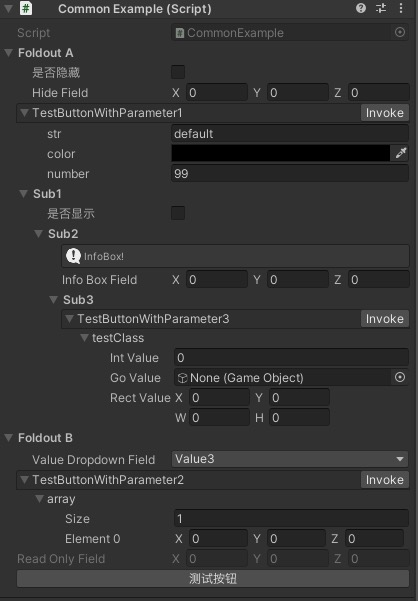
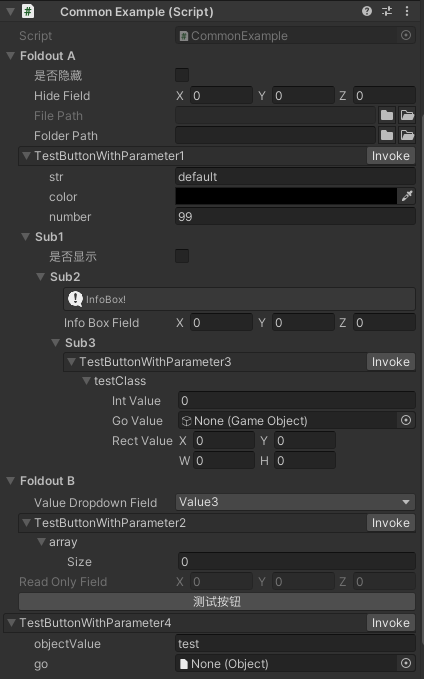
Add FilePathAttribute and FolderPathAttribute.

diff --git a/Common/Editor/PropertyDrawers/PropertyDrawers.cs b/Common/Editor/PropertyDrawers/PropertyDrawers.cs
@@ -1,5 +1,6 @@
 using System;
 using System.Collections;
+using System.IO;
 using System.Reflection;
 using CustomizationInspector.Runtime;
 using UnityEditor;
@@ -275,4 +276,106 @@ namespace CustomizationInspector.Editor
 	        return EditorGUI.GetPropertyHeight(property);
         }
     }
+
+	internal class PathDrawer : PropertyDrawer
+	{
+		public const int BrowseButtonWidth = 18;
+		public const int OpenButtonWidth = 18;
+		public const int Space = 2;
+		
+		private static readonly GUIContent browseContent = EditorGUIUtility.IconContent("d_Folder Icon");
+		private static readonly GUIContent openContent = EditorGUIUtility.IconContent("d_FolderOpened Icon");
+		private static readonly GUIStyle buttonStyle = GUI.skin.FindStyle("ColorPickerBox") ??
+		                                               EditorGUIUtility.GetBuiltinSkin(EditorSkin.Inspector).FindStyle("ColorPickerBox") ??
+		                                               GUIStyle.none;
+
+		public override void OnGUI(Rect position, SerializedProperty property, GUIContent label)
+		{
+			if (fieldInfo.FieldType != typeof(string))
+			{
+				EditorGUI.PropertyField(position, property, label);
+				return;
+			}
+			DrawPath(position, property, label);
+		}
+
+		public override float GetPropertyHeight(SerializedProperty property, GUIContent label)
+		{
+			return EditorGUI.GetPropertyHeight(property);
+		}
+		
+		public void DrawPath(Rect position, SerializedProperty property, GUIContent label)
+		{
+			if (attribute is not PathAttribute pathAttribute) return;
+			Rect propertyPosition = new Rect(position);
+			if (pathAttribute.Browse)
+				propertyPosition.width -= Space + BrowseButtonWidth;
+			if (pathAttribute.Open)
+				propertyPosition.width -= Space + OpenButtonWidth;
+			EditorGUI.PropertyField(propertyPosition, property, label, true);
+			if (pathAttribute.Draggable)
+			{
+				if (Event.current.type == EventType.DragUpdated && propertyPosition.Contains(Event.current.mousePosition))
+					DragAndDrop.visualMode = DragAndDropVisualMode.Link;
+				else if (Event.current.type == EventType.DragPerform && DragAndDrop.paths != null && DragAndDrop.paths.Length > 0)
+				{
+					if (propertyPosition.Contains(Event.current.mousePosition) && DragAndDrop.paths[0] != null)
+					{
+						string path = DragAndDrop.paths[0];
+						if (!pathAttribute.IsFile && File.Exists(path))
+							path = Path.GetDirectoryName(path);
+						property.stringValue = pathAttribute.GetRelativePath(path);
+						Event.current.Use();
+					}
+				}
+			}
+			
+			if (pathAttribute.Browse)
+			{
+				Rect browsePosition = new Rect(position);
+				if (pathAttribute.Open)
+				{
+					browsePosition.width = BrowseButtonWidth;
+					browsePosition.x += propertyPosition.width + Space;
+				}
+				else
+					browsePosition.xMin = browsePosition.xMax - OpenButtonWidth;
+				//Avoid ReadOnlyAttribute make button can not click.
+				bool enabled = GUI.enabled;
+				GUI.enabled = true;
+				if (GUI.Button(browsePosition, browseContent, buttonStyle))
+				{
+					string path;
+					if (pathAttribute.IsFile)
+						path = EditorUtility.OpenFilePanel(label.text, pathAttribute.GetAbsolutePath(property.stringValue), "");
+					else
+						path = EditorUtility.OpenFolderPanel(label.text, pathAttribute.GetAbsolutePath(property.stringValue), "");
+					if (!string.IsNullOrEmpty(path))
+						property.stringValue = pathAttribute.GetRelativePath(path);
+				}
+				GUI.enabled = enabled;
+			}
+			if (pathAttribute.Open)
+			{
+				Rect openPosition = new Rect(position);
+				openPosition.xMin = openPosition.xMax - OpenButtonWidth;
+				//Avoid ReadOnlyAttribute make button can not click.
+				bool enabled = GUI.enabled;
+				GUI.enabled = true;
+				if (GUI.Button(openPosition, openContent, buttonStyle))
+					EditorUtility.RevealInFinder(pathAttribute.GetAbsolutePath(property.stringValue));
+				GUI.enabled = enabled;
+			}
+		}
+	}
+
+	[CustomPropertyDrawer(typeof(Runtime.FilePathAttribute))]
+	internal class FilePathDrawer : PathDrawer
+	{
+	}
+	
+	[CustomPropertyDrawer(typeof(Runtime.FolderPathAttribute))]
+	internal class FolderPathDrawer : PathDrawer
+	{
+	}
 }

diff --git a/Common/Runtime/Attributes/PropertyAttributes.cs b/Common/Runtime/Attributes/PropertyAttributes.cs
@@ -1,5 +1,6 @@
 using System;
 using System.Diagnostics;
+using System.IO;
 using UnityEngine;
 namespace CustomizationInspector.Runtime
 {	
@@ -9,6 +10,13 @@ namespace CustomizationInspector.Runtime
 		Info,
 		Warning,
 		Error,
+	}
+	
+	public enum PathLocation
+	{
+		CustomFolder,
+		ProjectFolder,
+		AssetsFolder,
 	}
 
 	[AttributeUsage(AttributeTargets.Method, Inherited = true, AllowMultiple = false)]
@@ -135,6 +143,80 @@ namespace CustomizationInspector.Runtime
 		public FoldoutAttribute(string groupName)
 		{
 			GroupName = groupName;
+		}
+	}
+	
+	[Conditional("UNITY_EDITOR")]
+	public abstract class PathAttribute : PropertyAttribute
+	{
+		public readonly PathLocation Location;
+		public readonly string RootFolder;
+		public abstract bool IsFile { get; }
+		public bool Browse = true;
+		public bool Open = true;
+		public bool Draggable = true;
+		
+		public PathAttribute(PathLocation location = PathLocation.ProjectFolder, string rootFolder = null)
+		{
+			Location = location;
+			switch (location)
+			{
+				case PathLocation.CustomFolder:
+					RootFolder = rootFolder;
+					break;
+				case PathLocation.ProjectFolder:
+					RootFolder = Environment.CurrentDirectory;
+					break;
+				case PathLocation.AssetsFolder:
+					RootFolder = Application.dataPath;
+					break;
+			}
+		}
+		
+		public PathAttribute(string rootFolder) : this(PathLocation.CustomFolder, rootFolder)
+		{
+		}
+		
+		public string GetRelativePath(string path)
+		{
+			if (string.IsNullOrEmpty(RootFolder) || string.IsNullOrEmpty(path)) return path;
+			return Path.GetRelativePath(RootFolder, path);
+		}
+
+		public string GetAbsolutePath(string relativePath)
+		{
+			if (string.IsNullOrEmpty(RootFolder)) return relativePath;
+			return Path.GetFullPath(Path.Combine(RootFolder, relativePath ?? ""));
+		}
+	}
+	
+	[AttributeUsage(AttributeTargets.Field, Inherited = true, AllowMultiple = false)]
+	[Conditional("UNITY_EDITOR")]
+	public class FilePathAttribute : PathAttribute
+	{
+		public override bool IsFile => true;
+
+		public FilePathAttribute(PathLocation location = PathLocation.ProjectFolder, string rootFolder = null) : base(location, rootFolder)
+		{
+		}
+		
+		public FilePathAttribute(string rootFolder) : base(rootFolder)
+		{
+		}
+	}
+
+	[AttributeUsage(AttributeTargets.Field, Inherited = true, AllowMultiple = false)]
+	[Conditional("UNITY_EDITOR")]
+	public class FolderPathAttribute : PathAttribute
+	{
+		public override bool IsFile => false;
+		
+		public FolderPathAttribute(PathLocation location = PathLocation.ProjectFolder, string rootFolder = null) : base(location, rootFolder)
+		{
+		}
+		
+		public FolderPathAttribute(string rootFolder) : base(rootFolder)
+		{
 		}
 	}
 }

diff --git a/Utilities/Editor/EditorExtensionMethods.cs b/Utilities/Editor/EditorExtensionMethods.cs
@@ -3,6 +3,7 @@ using System.Collections;
 using System.Reflection;
 using UnityEditor;
 using UnityEngine;
+using Object = UnityEngine.Object;
 
 namespace CustomizationInspector.Editor
 {
@@ -15,7 +16,9 @@ namespace CustomizationInspector.Editor
 		{
 			//从最外层的property.serializedObject.targetObject(继承自UnityEngine.Object)的对象一层一层的找到目前需要绘制的对象
 			string[] array = property.propertyPath.Replace("Array.data", "*Array").Split('.');
-			object obj = property.serializedObject.targetObject;
+			Object targetObject = property.serializedObject.targetObject;
+			if (!targetObject) return null;
+			object obj = targetObject;
 			for (int i = 0; i < array.Length; i++)
 			{
 				if (!array[i].StartsWith("*Array"))
@@ -39,7 +42,9 @@ namespace CustomizationInspector.Editor
 		{
 			//从最外层的property.serializedObject.targetObject(继承自UnityEngine.Object)的对象一层一层的找到目前需要绘制的对象
 			string[] array = property.propertyPath.Replace("Array.data", "*Array").Split('.');
-			object obj = property.serializedObject.targetObject;
+			Object targetObject = property.serializedObject.targetObject;
+			if (!targetObject) return null;
+			object obj = targetObject;
 			FieldInfo fieldInfo = null;
 			for (int i = 0; i < array.Length; i++)
 			{
@@ -64,7 +69,9 @@ namespace CustomizationInspector.Editor
 		{
 			//从最外层的property.serializedObject.targetObject(继承自UnityEngine.Object)的对象一层一层的找到目前需要绘制的对象
 			string[] array = property.propertyPath.Replace("Array.data", "*Array").Split('.');
-			object obj = property.serializedObject.targetObject;
+			Object targetObject = property.serializedObject.targetObject;
+			if (!targetObject) return null;
+			object obj = targetObject;
 			for (int i = 0; i < array.Length - 1; i++)
 			{
 				if (!array[i].StartsWith("*Array"))

diff --git a/Core/Editor/CustomizationObjectEditor.cs b/Core/Editor/CustomizationObjectEditor.cs
@@ -14,8 +14,8 @@ namespace CustomizationInspector.Editor
 		{
 			if (!target)
 				return;
-			foldoutDrawer = new FoldoutDrawer(serializedObject, targets);
-			buttonDrawer = new ButtonDrawer(serializedObject, targets);
+			foldoutDrawer = new FoldoutDrawer(serializedObject, target, targets);
+			buttonDrawer = new ButtonDrawer(serializedObject, target, targets);
 			buttonDrawer.SetFoldoutDrawer(foldoutDrawer);
 		}
 		
@@ -27,6 +27,11 @@ namespace CustomizationInspector.Editor
 
 		public override void OnInspectorGUI()
 		{
+			if (!target)
+			{
+				base.OnInspectorGUI();
+				return;
+			}
 			//利用源码序列化
 			EditorGUI.BeginChangeCheck();
 			serializedObject.UpdateIfRequiredOrScript();

diff --git a/Core/Editor/FoldoutDrawer.cs b/Core/Editor/FoldoutDrawer.cs
@@ -72,7 +72,7 @@ namespace CustomizationInspector.Editor
         private HashSet<string> drawnFoldoutRoots;
         private HashSet<string> drawnMembers;
 
-        public FoldoutDrawer(SerializedObject serializedObject, Object[] targets, FoldoutStyle style = FoldoutStyle.Header) : base(serializedObject, targets)
+        public FoldoutDrawer(SerializedObject serializedObject, Object target, Object[] targets, FoldoutStyle style = FoldoutStyle.Header) : base(serializedObject, target, targets)
         {
 	        Style = style;
 	        foldoutMembers = new Dictionary<string, string>();

diff --git a/Core/Editor/Drawer.cs b/Core/Editor/Drawer.cs
@@ -15,10 +15,10 @@ namespace CustomizationInspector.Editor
         protected Object[] targets;
         protected Type targetType;
         
-        public Drawer(SerializedObject serializedObject, Object[] targets)
+        public Drawer(SerializedObject serializedObject, Object target, Object[] targets)
         {
             this.serializedObject = serializedObject;
-            target = serializedObject.targetObject;
+            this.target = target;
             this.targets = targets;
             targetType = target.GetType();
         }

diff --git a/Common/Example/CommonExample.cs b/Common/Example/CommonExample.cs
@@ -22,6 +22,15 @@ namespace CustomizationInspector.Example
         [Foldout("Foldout A")]
         [HideIf(nameof(Hide))] //支持值为bool的field、property、method
         public Vector3 HideField;
+        
+        [Foldout("Foldout A")]
+        [ReadOnly]
+        [FilePath]
+        public string filePath;
+        
+        [Foldout("Foldout A")]
+        [FolderPath(PathLocation.AssetsFolder)]
+        public string folderPath;
 
         [Foldout("Foldout A/Sub1")]
         [Rename("是否显示")]

diff --git a/Core/Editor/ButtonDrawer.cs b/Core/Editor/ButtonDrawer.cs
@@ -191,7 +191,7 @@ namespace CustomizationInspector.Editor
 			return tmpContent;
 		}
 		
-	    public ButtonDrawer(SerializedObject serializedObject, Object[] targets) : base(serializedObject, targets)
+	    public ButtonDrawer(SerializedObject serializedObject, Object target, Object[] targets) : base(serializedObject, target, targets)
 	    {
 	        methodInfos = targetType.GetMethods(BindingFlags);
 	        methodButtonAttributes = new Dictionary<MethodInfo, List<ButtonAttribute>>(methodInfos.Length);

diff --git a/README.md b/README.md
@@ -2,7 +2,17 @@
 Customize Unity3D inspector by attribute(such as Button, ReadOnly, HideIf etc.) and serializable dictionary.
 
 ## Features
-* Provide some attributes to change original inspector.(Foldout,Rename,HideIf,ShowIf,ReadOnly,ValueDropdown,InfoBox,MinMax,Button...)
+* Provide some attributes to change original inspector.
+  - Foldout
+  - Rename
+  - HideIf
+  - ShowIf
+  - ReadOnly
+  - InfoBox
+  - Button
+  - FilePath
+  - FolderPath
+  - MinMax
 * Serialize dictionary class to easy edit in inspector.
 * Redraw `Vector4` and `Vector4Int` inspector.
 * Add Copy and Paste button on `AnimationCurve` inspector.
